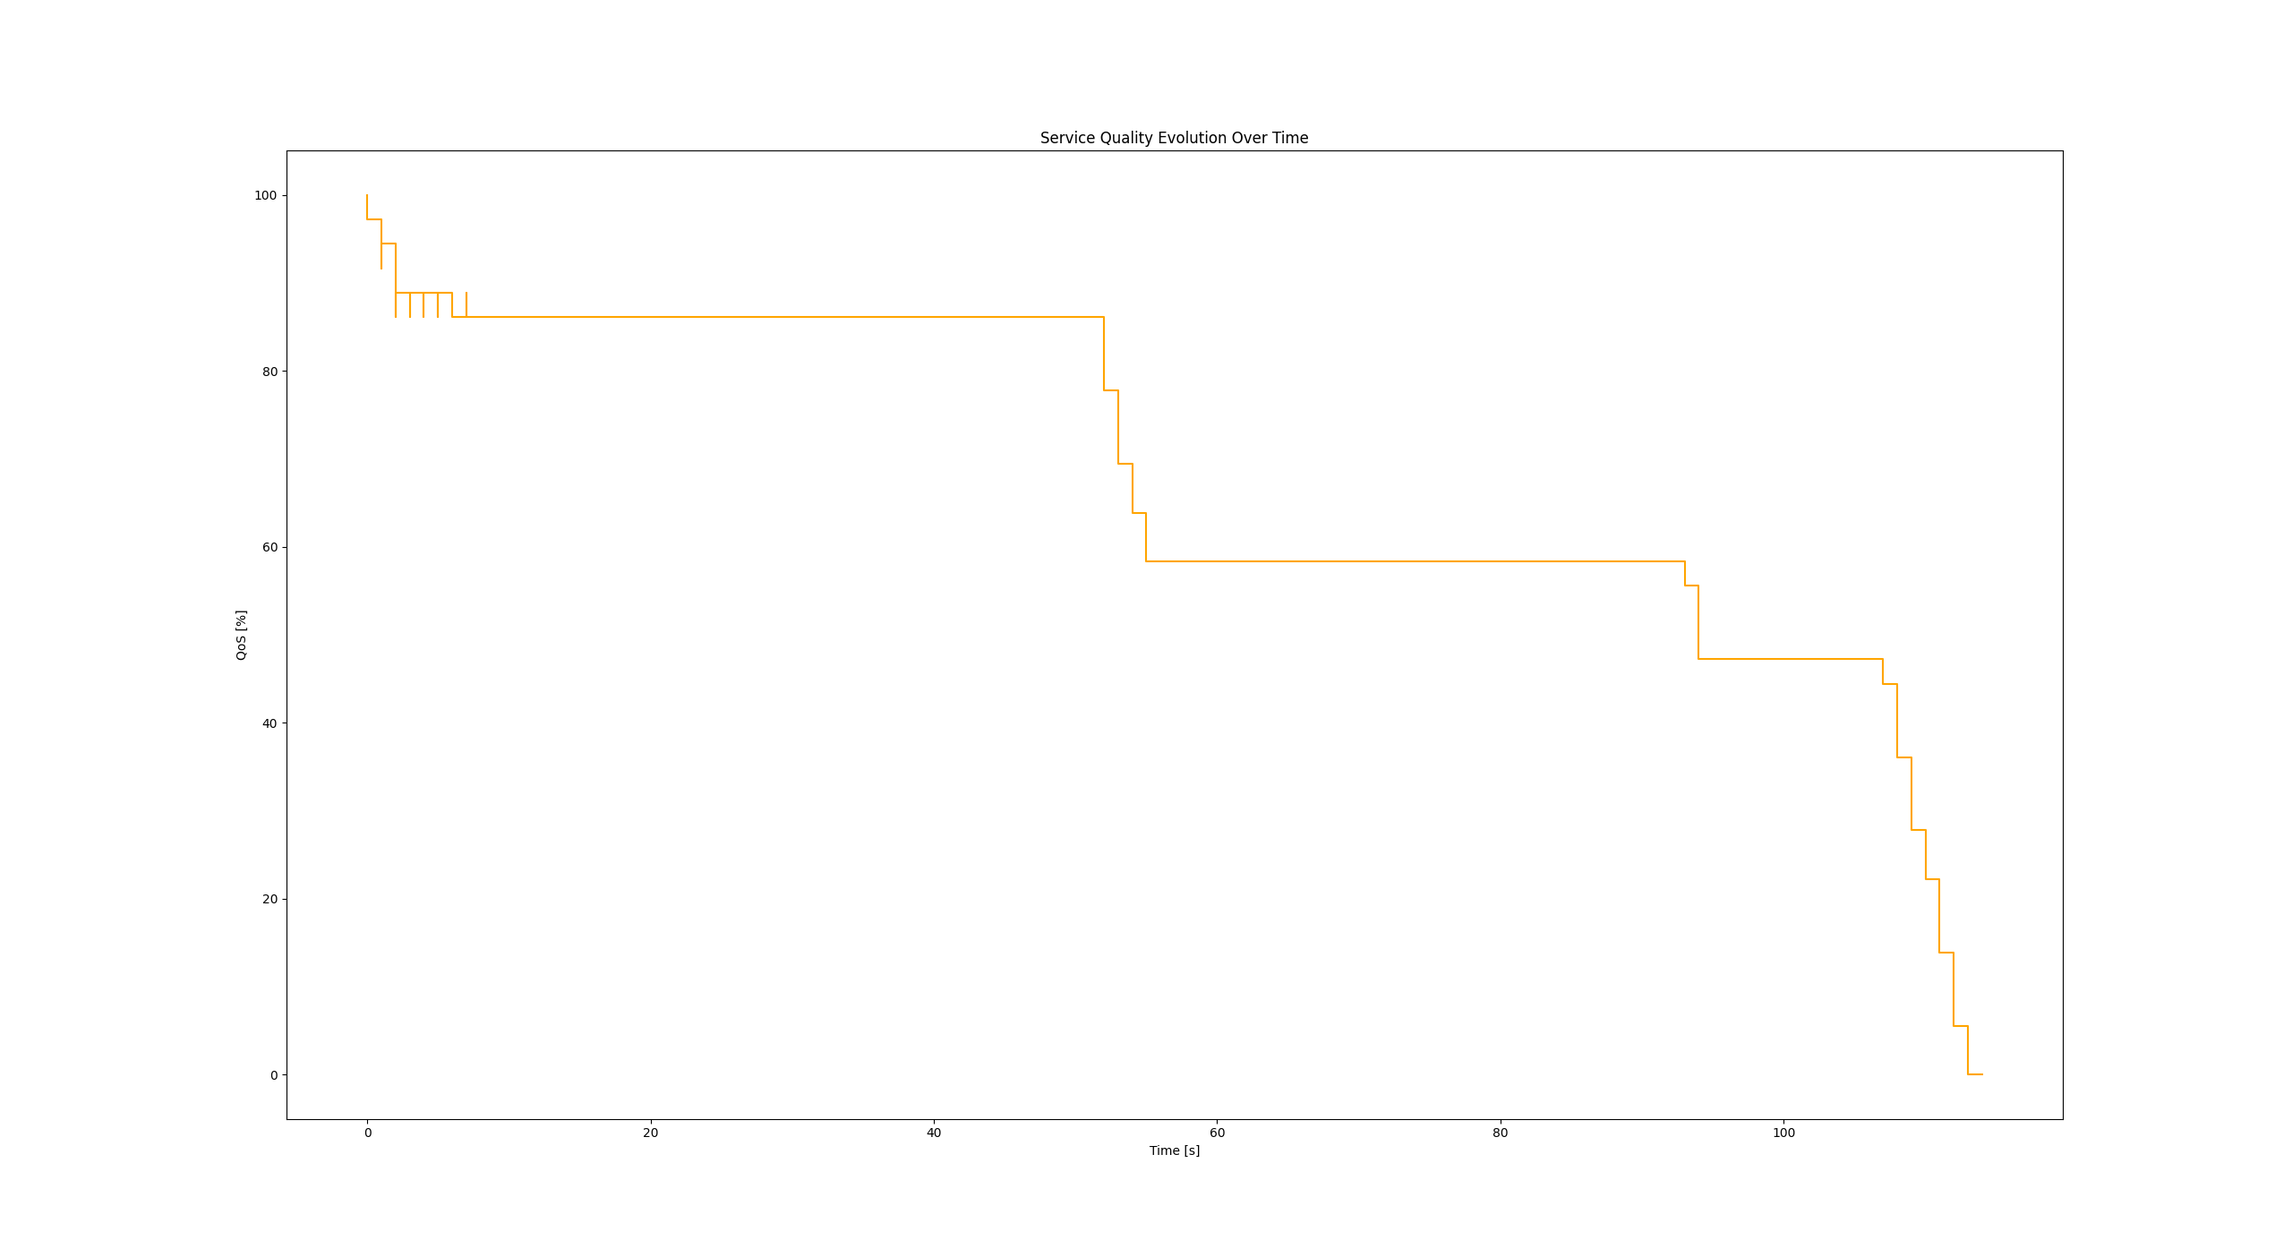
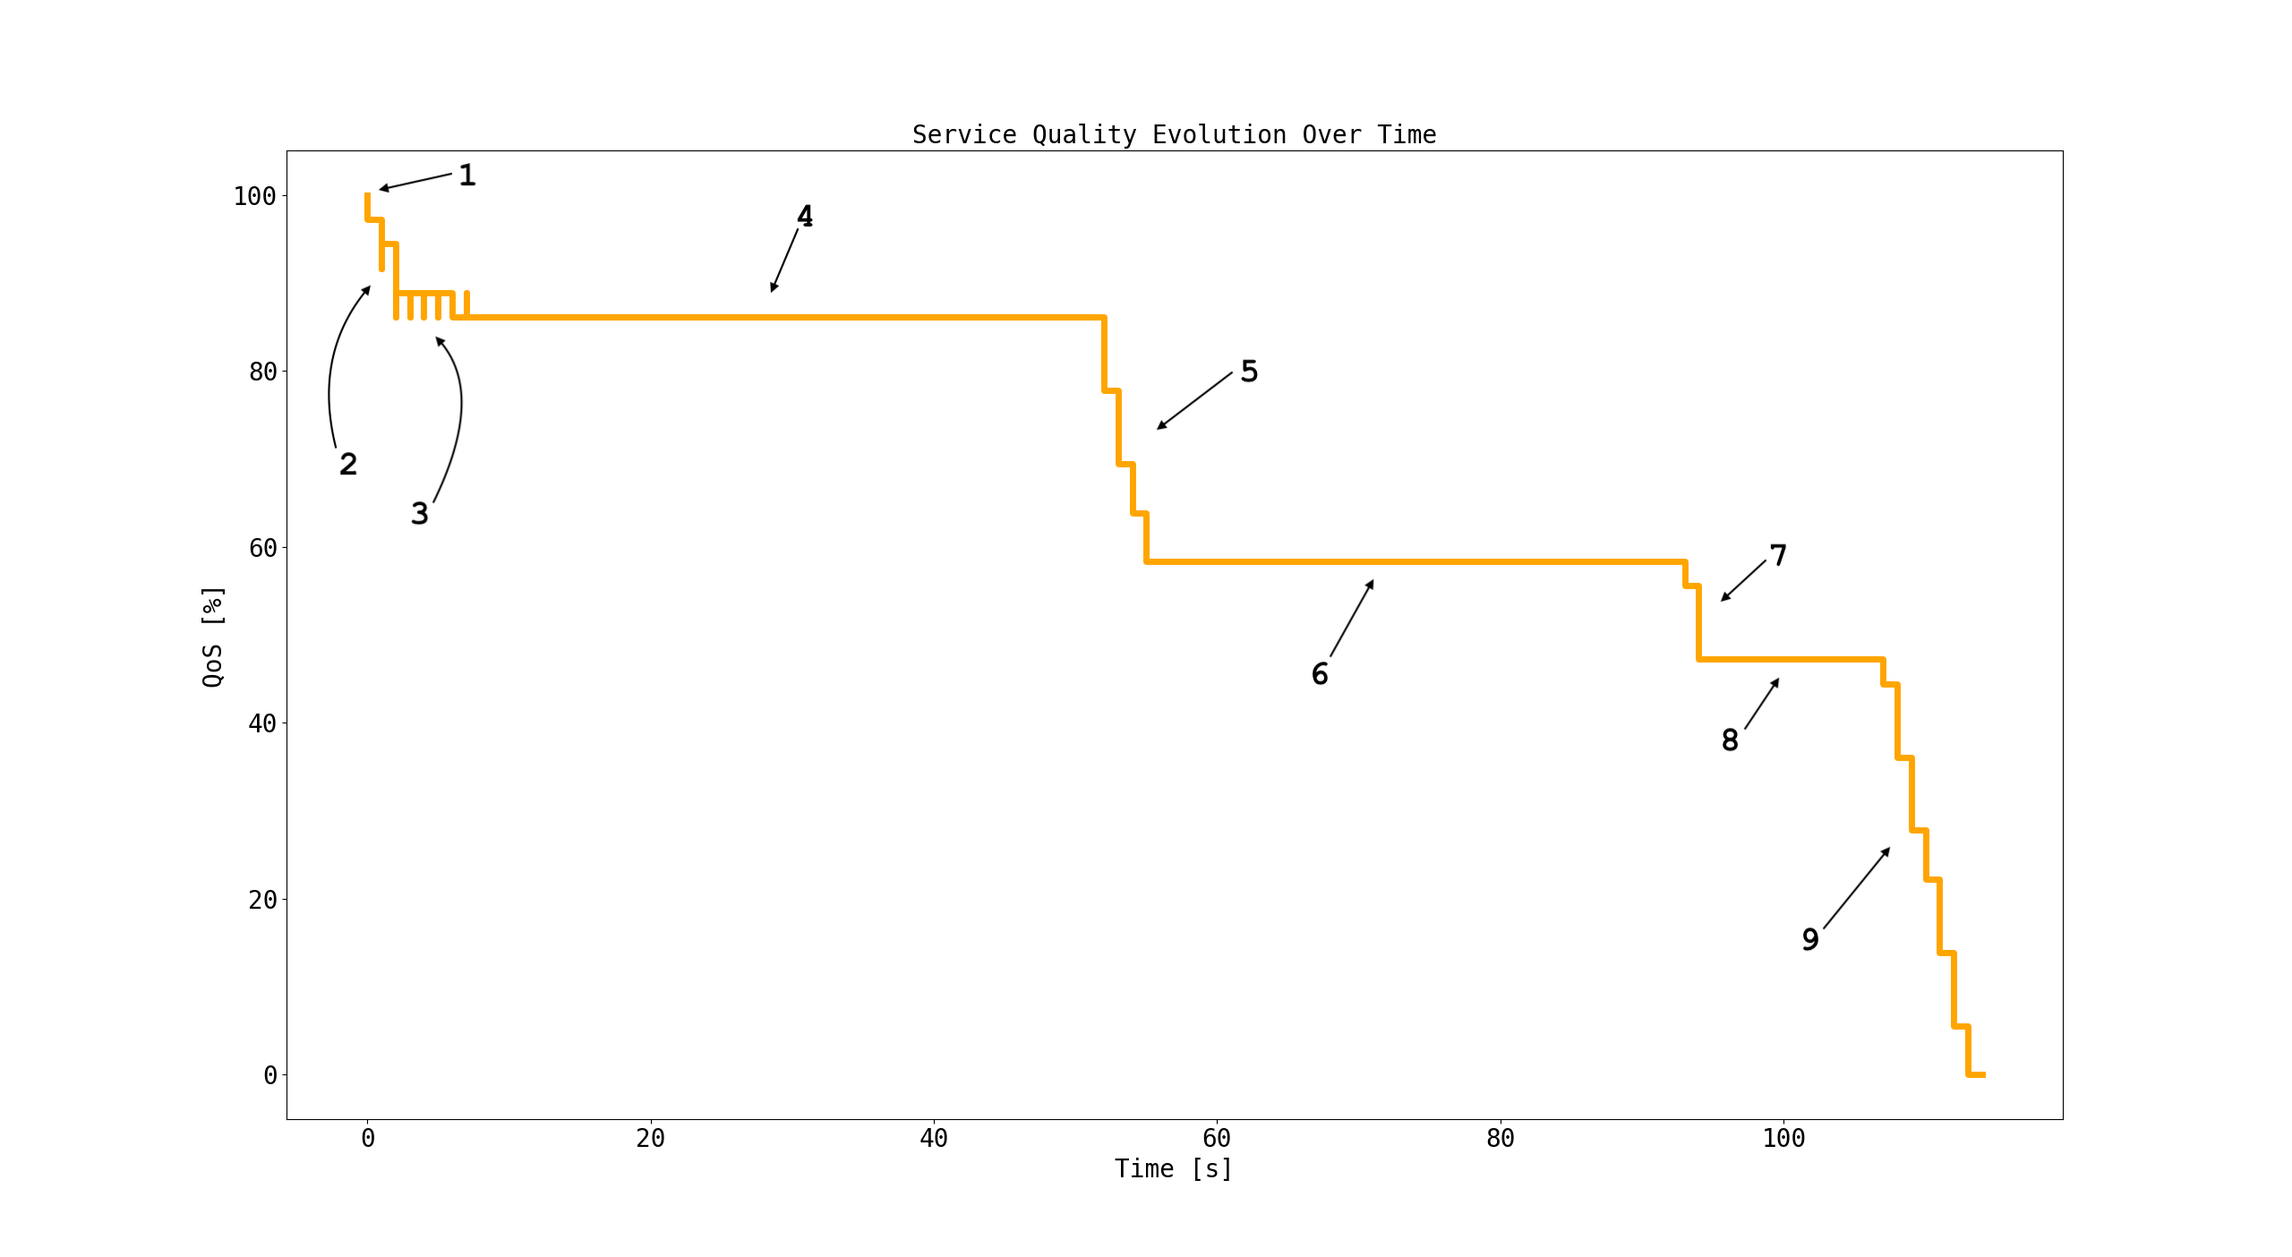
Made images clearer!

diff --git a/Document/Content/Chapters/Ch_5.tex b/Document/Content/Chapters/Ch_5.tex
@@ -53,13 +53,31 @@
         We applied the steps described in the previous section to the \textit{ICS Topology} we presented on figure \ref{fig:top-ics}. We initially launched the attack script on the network ``as-is'' so that we would have a reference against which to compare the effectiveness of proposed mitigation strategies. In all of the cases below, host \textit{c-1} was the attack's entry point.\\
 
         \subsection{Running the Attack Against a Static Network}
-            Figure \ref{fig:static-atk-annotated} depicts the evolution of the \textit{QoS} over time on the network as time progresses. The initial point is $(0, QoS(0)) = (0, 1)$ and it has been added so that the initial reference for any subsequent attacks is equivalent. The times present on the abscissa axis are relative to this initial condition. This graph has been generated \textbf{exclusively} based on the data points present on listing \ref{lst:static-atk} which were recovered after the attack had concluded through the \texttt{dump-atk-data} command. Given we \textbf{are not} taking any explicit action to try and halt the attack's progression we can regard this as the worst case scenario.\\
+            Figure \ref{fig:static-atk} depicts the evolution of the \textit{QoS} over time on the network as time progresses. The initial point is $(0, QoS(0)) = (0, 1)$ and it has been added so that the initial reference for any subsequent attacks is equivalent. The times present on the abscissa axis are relative to this initial condition. This graph has been generated \textbf{exclusively} based on the data points present on listing \ref{lst:static-atk} which were recovered after the attack had concluded through the \texttt{dump-atk-data} command. Given we \textbf{are not} taking any explicit action to try and halt the attack's progression we can regard this as the worst case scenario.\\
 
-            The plot shown on figure \ref{fig:static-atk-annotated} is rather distinctive. Due to how the attack operates, it will suffer non-negligible delays when trying to \textit{ping} an \textit{IP} address that is not assigned. In other words, the \textit{ping} timeout is large when compared to how fast the attack propagates on the lower end of the subnets. The reason is that the ``virus'' will continue taking \textit{ping} processes down as long as it finds victims within a subnet without any apparent delay. We must not forget the entire virtual network is housed within the same host. This fact implies network connections are extremely fast and thus they do not become a ``bottleneck'' for the attack's operation. These delays manifest themselves as regions with minuscule slopes when compared with the steeper ones. Figure \ref{fig:static-atk-annotated} contains $6$ of them.\\
+            The plot shown on figure \ref{fig:static-atk} is rather distinctive. Due to how the attack operates, it will suffer non-negligible delays when trying to \textit{ping} an \textit{IP} address that is not assigned. In other words, the \textit{ping} timeout is large when compared to how fast the attack propagates on the lower end of the subnets. The reason is that the ``virus'' will continue taking \textit{ping} processes down as long as it finds victims within a subnet without any apparent delay. We must not forget the entire virtual network is housed within the same host. This fact implies network connections are extremely fast and thus they do not become a ``bottleneck'' for the attack's operation. These delays manifest themselves as regions with minuscule slopes when compared with the steeper ones. Figure \ref{fig:static-atk} contains $6$ of them.\\
 
-            The smooth regions alternate with others characterised by a rather tumultuous slope. These are generated by the attack quickly propagating throughout a subnet and it is easy to spot $7$ of them on figure \ref{fig:static-atk-annotated}. We can then see how the attack has an almost ``periodic'' behaviour. It will ``bomb'' the lower address space within each subnet it encounters. When it runs out of victims, it will suffer a noticeable timeout to then resume its operation on a new subnet.\\
+            The smooth regions alternate with others characterised by a rather tumultuous slope. These are generated by the attack quickly propagating throughout a subnet and it is easy to spot $7$ of them on figure \ref{fig:static-atk}. We can then see how the attack has an almost ``periodic'' behaviour. It will ``bomb'' the lower address space within each subnet it encounters. When it runs out of victims, it will suffer a noticeable timeout to then resume its operation on a new subnet.\\
 
-            Figure \ref{fig:atk-progression} contains a simplified network schematic representing the topology shown on figure \ref{fig:top-ics} and the attack's propagation over the network. By combining the contents of this image with those of figure \ref{fig:static-atk-annotated} one can understand why and how the attack behaves the way it does.\\
+            Figure \ref{fig:atk-progression} contains a simplified network schematic representing the topology shown on figure \ref{fig:top-ics} and the attack's propagation over the network. By combining the contents of this image with those of figure \ref{fig:static-atk} one can understand why and how the attack behaves the way it does.\\
+
+            The tags found on figure \ref{fig:atk-progression} are explained in the following enumeration:\\
+
+            \begin{enumerate}
+                \item The attack begins propagating from the $C_1$ node.
+                \item The attack propagates to the \textit{Corp - DMZ} Router.
+                \item The attack makes its way to the \textit{DMZ - Main} Router.
+                \item The attack reaches the \textit{Main Router}.
+                \item The attack terminates the \textit{ping} processes on the entire \textit{Client} subnet.
+                \item The attack returns to the \textit{Main Router} and then proceeds to infect the \textit{Remote} subnet.
+                \item The attack goes back to the \textit{Main Router} and then assaults the \textit{Vendor} subnet.
+                \item After going back to the \textit{Main Router}, the attack infects the \textit{Operations} subnet.
+                \item The attack returns to the \textit{Main Router} and then attacks the \textit{Control Subnet's Outward Access Region}. It will take down the ping processes on hosts $T_1 \to T_4$, inclusive.
+                \item From $T_4$, the attack propagates through the \textit{Control Subnet's Restricted Access Region}, taking nodes $T_5 \to T_0$ with it.
+                \item The attack returns to the \textit{Main Router}, and given no more nodes on the \textit{Router} subnet remain to be attacked, it goes back to the \textit{Corp - DMZ Router}.
+                \item The attack now takes down the entire \textit{DMZ} subnet.
+                \item And it finally kills the \textit{ping} process on machines belonging to the \textit{Corp} subnet. This concludes the attack.
+            \end{enumerate}
 
             Given the information expressed through the figures can come across as ``dense'' we have also decided to describe the attack's overall beahviour in a textual manner. In both scenarios the initially infected node will be $C_1$. The attack will then propagate to the router connecting the \textit{Corp} and \textit{DMZ} subnets to then ``jump'' to the topology's main router. From there it will begin attacking each subnet in an ascending order in terms of their network address. That is, it will begin taking down processes on the \textit{Client} subnet and then make its way up to the \textit{Control Subnet's Outward Access Region}. Once node $T_4$ becomes infected, the attack will propagate to the \textit{Restricted Access Region} of the aforementioned subnet. Upon termination of the attack on this last subnet, it will follow its initial path in the opposite direction by taking down nodes on the \textit{DMZ} subnet and finally targeting machines belonging to the \textit{Corp} subnet. At these point all the \textit{ping} processes will have been taken down, thus concluding the attack. Please refer to figure \ref{fig:atk-progression} for a more detailed walkthrough of the attack's evolution.\\
 
@@ -70,19 +88,39 @@
             %     \label{fig:static-atk}
             % \end{sidewaysfigure}
 
-            \begin{sidewaysfigure}
+            \begin{figure}
                 \centering
-                \includegraphics[width=\linewidth]{atk_static_net_annotated.png}
-                \caption[Annotated \textit{QoS} on a Static Topology]{Annotated Evolution of the \textit{QoS} Over Time for a Static Topology.}
-                \label{fig:static-atk-annotated}
-            \end{sidewaysfigure}
+                \includegraphics[width=\linewidth]{atk_static_net.png}
+                \caption[\textit{QoS} on a Static Topology]{Evolution of the \textit{QoS} Over Time for a Static Topology.}
+                \label{fig:static-atk}
+            \end{figure}
 
-            \begin{sidewaysfigure}
+            The tags found on figure \ref{fig:static-atk} are explained in the following enumeration:\\
+
+            \begin{enumerate}
+                \item Initial state.
+                \item This decrease in \textit{QoS} is due to the \textit{ping} processes being killed in nodes $C_1$, $R_x$, $R_y$, $R_z$ and the entire \textit{Client} subnet (i.e. the $E_n$ nodes).
+                \item Timeout suffered after infecting the entire \textit{Client} subnet.
+                \item The attack proceeds to the \textit{Remote} subnet ($R_n$ nodes).
+                \item Timeout suffered after infecting the entire \textit{Remote} subnet.
+                \item The attack continues and targets the \textit{Vendor} subnet ($V_n$ nodes).
+                \item Timeout suffered after infecting the entire \textit{Vendor} subnet.
+                \item The attack goes on and attacks the \textit{Operations} subnet ($P_n$ nodes).
+                \item Timeout suffered after infecting the entire \textit{Operations} subnet.
+                \item The attack makes its way to the \textit{Control Subnet's Outward Access Region}. Once it infects node $T_4$, it will gain access to the \textit{Restricted Access Region} as well. It will then put \textit{ping} processes on both $T_5$ and $T_6$ out of commission as if they only belonged to the \textit{Restricted Access Region}. Thus, the characteristic delay experienced after taking an entire subnet down will now only be suffered after the \textit{ping} processes are actually killed.
+                \item This delay roughly equates to $3$ of the ones suffered up to now. These correspond to the \textit{Control Subnet's Restricted Access Area}, the \textit{Control Subnet's Outward Access Area} and the \textit{Router} subnet, respectively. In the last of the three there are actually no more nodes to take down: both \textit{ping} processes on the $R_y$ and $R_z$ routers were terminated during the first \textit{QoS} fall.
+                \item The attack proceeds to the \textit{DMZ} subnet ($Z_n$ nodes).
+                \item Timeout suffered after infecting the entire \textit{DMZ} subnet.
+                \item The attack targets the \textit{Corp} subnet ($C_n$ nodes) and then finishes.
+                \item Note how the magnitude of the reduction in terms of the \textit{QoS} is proportional to the size of each of the affected subnets in terms of hosts.
+            \end{enumerate}
+
+            \begin{figure}
                 \centering
                 \includegraphics[width=\linewidth]{atk_progression.png}
                 \caption[Attack Progression]{Attack Progression Over the Network.}
                 \label{fig:atk-progression}
-            \end{sidewaysfigure}
+            \end{figure}
 
             \lstinputlisting[style = csvs, caption = Retrieved Data Points for the Attack on a Static Network., label = lst:static-atk]{Experiment_data/atk-static-net.csv}
 
@@ -95,7 +133,19 @@
 
             Even though we are moving hosts while the attack is underway, the steps described in figure \ref{fig:atk-progression} are totally applicable: if we regard the network as a collection of subnets its topology \textbf{is not altered} at all by the \texttt{mitigate-atk} command. This explains why the attack's behaviour is the same despite the times at which the events take place not being exactly alike.\\
 
-            Figure \ref{fig:dynamic-atk-annotated} portrays the evolution of the \textit{QoS} when we try to hinder the attack's progress. Figure \ref{fig:atk-comparison} superimposes the evolution of the \textit{QoS} in both cases. Studying it reveals how in the latter case the \textit{QoS} is higher during the entirety of the attack. Thus, we can rest assured our mitigation mechanism is provoking its intended effect.\\
+            Figure \ref{fig:dynamic-atk} portrays the evolution of the \textit{QoS} when we try to hinder the attack's progress. Figure \ref{fig:atk-comparison} superimposes the evolution of the \textit{QoS} in both cases. Studying it reveals how in the latter case the \textit{QoS} is higher during the entirety of the attack. Thus, we can rest assured our mitigation mechanism is provoking its intended effect. The tags in said figure are described in the following enumeration:\\
+
+            \begin{enumerate}
+                \item Initial state.
+                \item The attack's progression is somewhat obfuscated due to the mitigation procedure. The movement of nodes causes \textit{ping} processes to be killed and spawned, which has transient effect on the \textit{QoS} level.
+                \item After the attack is launched, we manually move every node within the \textit{Client}, \textit{Remote}, \textit{Vendor} and \textit{Operations} subnets and attach them to the \textit{Corp} subnet. In other words, we are moving all the $E_n$, $R_n$, $V_n$, and $P_n$ nodes and turning them into $C_n$ nodes. The movement implies that the \textit{ping} processes will be taken down and then spawned, which is what causes the ``jittery'' behaviour seen here.
+                \item The attack experiments a delay that is roughly $4$ times the one that a single subnet causes. These are provided by the \textit{Client}, \textit{Remote}, \textit{Vendor} and \textit{Operations} subnets, respectively.
+                \item This decrease in the \textit{QoS} is due to the dismantling of the $T_n$ nodes' \textit{ping} processes.
+                \item The attack suffers a total delay that is the product of those provided by the \textit{Control Subnet's Restricted Access Region}, the \textit{Control Subnet's Outward Access Region} and the \textit{Router} subnet. Thus, it is roughly $3$ times larger than the delay caused by a single subnet.
+                \item The \textit{DMZ} subnet ($Z_n$ nodes) is attacked.
+                \item The attack experiences a delay after infecting the entire \textit{DMZ} subnet.
+                \item The attack proceeds to the \textit{Corp} subnet. It houses all the $C_n$ nodes and all the nodes we displaced to mitigate the attack, which amounts to a grand total of $19$ hosts. The ping processes will be nonetheless terminated on only $18$, due to the fact that node $C_1$ was the attack's entry point. Once the \textit{Corp} subnet is attacked, the network's \textit{QoS} drops to $0\ \%$: the attack is finished.
+            \end{enumerate}
 
             % \begin{sidewaysfigure}
             %     \centering
@@ -104,19 +154,19 @@
             %     \label{fig:dynamic-atk}
             % \end{sidewaysfigure}
 
-            \begin{sidewaysfigure}
+            \begin{figure}
                 \centering
-                \includegraphics[width=\linewidth]{atk_dynamic_net_annotated.png}
-                \caption[Annotated \textit{QoS} on a Dynamic Topology]{Annotated Evolution of the \textit{QoS} Over Time for a Dynamic Topology.}
-                \label{fig:dynamic-atk-annotated}
-            \end{sidewaysfigure}
+                \includegraphics[width=\linewidth]{atk_dynamic_net.png}
+                \caption[\textit{QoS} on a Dynamic Topology]{Evolution of the \textit{QoS} Over Time for a Dynamic Topology.}
+                \label{fig:dynamic-atk}
+            \end{figure}
 
-            \begin{sidewaysfigure}
+            \begin{figure}
                 \centering
                 \includegraphics[width=\linewidth]{static_vs_dynamic_atk.png}
                 \caption[Attack Mitigation Effect vs. Baseline Case]{Comparison of the Evolution of the \textit{QoS}. \textit{Blue} - Base Case. \textit{Orange} - Mitigated Attack.}
                 \label{fig:atk-comparison}
-            \end{sidewaysfigure}
+            \end{figure}
 
             \lstinputlisting[style = csvs, caption = Retrieved Data Points for the Attack on a Dynamic Network., label = lst:dynamic-atk]{Experiment_data/mitigated-atk.csv}
 
